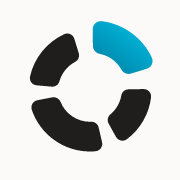
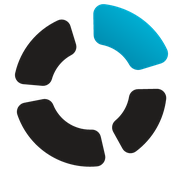
Tighten marketing site SEO around the new mark
Add Open Graph and Twitter titles on inner pages, version the OG image,
refresh the Apple touch icon from the four-colour mark, and expand
JSON-LD. Leave the waitlist form as-is.

diff --git a/site/index.html b/site/index.html
@@ -6,26 +6,48 @@
   <title>VortexFlow — every window and tab, at your cursor or key</title>
   <meta name="description" content="A spiral of every window and tab you have open appears around the pointer — or from any keyboard shortcut. For heavy macOS users. Join the waitlist.">
   <link rel="canonical" href="https://vortexflow.io/">
+  <meta property="og:site_name" content="VortexFlow">
   <meta property="og:title" content="VortexFlow — Every window and tab, at your cursor or key.">
   <meta property="og:description" content="A spiral of every window and tab you have open appears around the pointer — or from any keyboard shortcut. Join the waitlist.">
   <meta property="og:url" content="https://vortexflow.io/">
-  <meta property="og:image" content="https://vortexflow.io/img/og-image.png">
+  <meta property="og:image" content="https://vortexflow.io/img/og-image.png?v=2">
+  <meta property="og:image:width" content="1200">
+  <meta property="og:image:height" content="630">
   <meta property="og:type" content="website">
+  <meta name="twitter:title" content="VortexFlow — every window and tab, at your cursor or key">
+  <meta name="twitter:description" content="A spiral of every window and tab you have open appears around the pointer — or from any keyboard shortcut. For heavy macOS users. Join the waitlist.">
   <meta name="twitter:card" content="summary_large_image">
-  <meta name="twitter:image" content="https://vortexflow.io/img/og-image.png">
+  <meta name="twitter:image" content="https://vortexflow.io/img/og-image.png?v=2">
   <link rel="icon" href="/img/favicon.svg?v=2" type="image/svg+xml">
   <link rel="icon" href="/img/favicon-32.png?v=2" type="image/png" sizes="32x32">
-  <link rel="apple-touch-icon" href="/img/apple-touch.png">
+  <link rel="apple-touch-icon" href="/img/apple-touch.png?v=2">
   <meta name="theme-color" content="#f6f4f1">
   <link rel="stylesheet" href="/css/site.css?v=16">
   <script type="application/ld+json">
   {
     "@context": "https://schema.org",
-    "@type": "SoftwareApplication",
-    "name": "VortexFlow",
-    "operatingSystem": "macOS 15",
-    "applicationCategory": "UtilitiesApplication",
-    "url": "https://vortexflow.io/"
+    "@graph": [
+      {
+        "@type": "WebSite",
+        "name": "VortexFlow",
+        "url": "https://vortexflow.io/"
+      },
+      {
+        "@type": "SoftwareApplication",
+        "name": "VortexFlow",
+        "operatingSystem": "macOS 15",
+        "applicationCategory": "UtilitiesApplication",
+        "url": "https://vortexflow.io/",
+        "description": "A spiral of every window and tab you have open appears around the pointer, or from any keyboard shortcut. For heavy macOS users.",
+        "image": "https://vortexflow.io/img/og-image.png?v=2",
+        "offers": {
+          "@type": "Offer",
+          "price": "0",
+          "priceCurrency": "USD",
+          "availability": "https://schema.org/PreOrder"
+        }
+      }
+    ]
   }
   </script>
 </head>
@@ -35,7 +57,7 @@
   <nav id="nav" class="nav" aria-label="Primary">
     <div class="wrap nav-in">
       <a class="mark" href="#top">
-        <img src="/img/mark.svg" width="22" height="22" alt="" aria-hidden="true">
+        <img src="/img/mark.svg?v=2" width="22" height="22" alt="" aria-hidden="true">
         <span>VortexFlow</span>
       </a>
       <div class="nav-links">

diff --git a/site/blog/spaces-and-the-window-you-meant/index.html b/site/blog/spaces-and-the-window-you-meant/index.html
@@ -8,12 +8,38 @@
   <link rel="canonical" href="https://vortexflow.io/blog/spaces-and-the-window-you-meant/">
   <link rel="icon" href="/img/favicon.svg?v=2" type="image/svg+xml">
   <link rel="icon" href="/img/favicon-32.png?v=2" type="image/png" sizes="32x32">
-  <link rel="apple-touch-icon" href="/img/apple-touch.png">
+  <link rel="apple-touch-icon" href="/img/apple-touch.png?v=2">
   <meta name="theme-color" content="#f6f4f1">
-  <meta property="og:image" content="https://vortexflow.io/img/og-image.png">
+  <meta property="og:site_name" content="VortexFlow">
+  <meta property="og:title" content="The window you meant is on the other desk — VortexFlow">
+  <meta property="og:description" content="Cmd-` fails across Spaces and fullscreen. VortexFlow’s spiral lists those windows, and Full Screen in the card menu leaves the Space before it places them.">
+  <meta property="og:url" content="https://vortexflow.io/blog/spaces-and-the-window-you-meant/">
+  <meta property="og:type" content="article">
+  <meta property="og:image:width" content="1200">
+  <meta property="og:image:height" content="630">
+  <meta name="twitter:title" content="The window you meant is on the other desk — VortexFlow">
+  <meta name="twitter:description" content="Cmd-` fails across Spaces and fullscreen. VortexFlow’s spiral lists those windows, and Full Screen in the card menu leaves the Space before it places them.">
+  <meta property="og:image" content="https://vortexflow.io/img/og-image.png?v=2">
   <meta name="twitter:card" content="summary_large_image">
-  <meta name="twitter:image" content="https://vortexflow.io/img/og-image.png">
+  <meta name="twitter:image" content="https://vortexflow.io/img/og-image.png?v=2">
   <link rel="stylesheet" href="/css/site.css?v=16">
+  <script type="application/ld+json">
+  {
+    "@context": "https://schema.org",
+    "@type": "BlogPosting",
+    "headline": "The window you meant is on the other desk",
+    "description": "Cmd-` fails across Spaces and fullscreen. VortexFlow\u2019s spiral lists those windows, and Full Screen in the card menu leaves the Space before it places them.",
+    "url": "https://vortexflow.io/blog/spaces-and-the-window-you-meant/",
+    "image": "https://vortexflow.io/img/og-image.png?v=2",
+    "mainEntityOfPage": "https://vortexflow.io/blog/spaces-and-the-window-you-meant/",
+    "publisher": {
+      "@type": "Organization",
+      "name": "VortexFlow",
+      "url": "https://vortexflow.io/",
+      "logo": "https://vortexflow.io/img/mark.svg?v=2"
+    }
+  }
+  </script>
 </head>
 <body>
   <header class="nav">

diff --git a/site/blog/dont-leave-the-pointer/index.html b/site/blog/dont-leave-the-pointer/index.html
@@ -8,12 +8,38 @@
   <link rel="canonical" href="https://vortexflow.io/blog/dont-leave-the-pointer/">
   <link rel="icon" href="/img/favicon.svg?v=2" type="image/svg+xml">
   <link rel="icon" href="/img/favicon-32.png?v=2" type="image/png" sizes="32x32">
-  <link rel="apple-touch-icon" href="/img/apple-touch.png">
+  <link rel="apple-touch-icon" href="/img/apple-touch.png?v=2">
   <meta name="theme-color" content="#f6f4f1">
-  <meta property="og:image" content="https://vortexflow.io/img/og-image.png">
+  <meta property="og:site_name" content="VortexFlow">
+  <meta property="og:title" content="Don’t leave the pointer — VortexFlow">
+  <meta property="og:description" content="Window switching is slow because the hand leaves the mouse. VortexFlow keeps the spiral at the cursor — and the same overlay on a keyboard shortcut.">
+  <meta property="og:url" content="https://vortexflow.io/blog/dont-leave-the-pointer/">
+  <meta property="og:type" content="article">
+  <meta property="og:image:width" content="1200">
+  <meta property="og:image:height" content="630">
+  <meta name="twitter:title" content="Don’t leave the pointer — VortexFlow">
+  <meta name="twitter:description" content="Window switching is slow because the hand leaves the mouse. VortexFlow keeps the spiral at the cursor — and the same overlay on a keyboard shortcut.">
+  <meta property="og:image" content="https://vortexflow.io/img/og-image.png?v=2">
   <meta name="twitter:card" content="summary_large_image">
-  <meta name="twitter:image" content="https://vortexflow.io/img/og-image.png">
+  <meta name="twitter:image" content="https://vortexflow.io/img/og-image.png?v=2">
   <link rel="stylesheet" href="/css/site.css?v=16">
+  <script type="application/ld+json">
+  {
+    "@context": "https://schema.org",
+    "@type": "BlogPosting",
+    "headline": "Don\u2019t leave the pointer",
+    "description": "Window switching is slow because the hand leaves the mouse. VortexFlow keeps the spiral at the cursor \u2014 and the same overlay on a keyboard shortcut.",
+    "url": "https://vortexflow.io/blog/dont-leave-the-pointer/",
+    "image": "https://vortexflow.io/img/og-image.png?v=2",
+    "mainEntityOfPage": "https://vortexflow.io/blog/dont-leave-the-pointer/",
+    "publisher": {
+      "@type": "Organization",
+      "name": "VortexFlow",
+      "url": "https://vortexflow.io/",
+      "logo": "https://vortexflow.io/img/mark.svg?v=2"
+    }
+  }
+  </script>
 </head>
 <body>
   <header class="nav">

diff --git a/site/blog/six-chromes-one-spiral/index.html b/site/blog/six-chromes-one-spiral/index.html
@@ -8,12 +8,38 @@
   <link rel="canonical" href="https://vortexflow.io/blog/six-chromes-one-spiral/">
   <link rel="icon" href="/img/favicon.svg?v=2" type="image/svg+xml">
   <link rel="icon" href="/img/favicon-32.png?v=2" type="image/png" sizes="32x32">
-  <link rel="apple-touch-icon" href="/img/apple-touch.png">
+  <link rel="apple-touch-icon" href="/img/apple-touch.png?v=2">
   <meta name="theme-color" content="#f6f4f1">
-  <meta property="og:image" content="https://vortexflow.io/img/og-image.png">
+  <meta property="og:site_name" content="VortexFlow">
+  <meta property="og:title" content="Six Chromes. One spiral. — VortexFlow">
+  <meta property="og:description" content="Same-app windows are only identical if the switcher makes them so. VortexFlow’s spiral tints each card and layers the site’s icon on the browser.">
+  <meta property="og:url" content="https://vortexflow.io/blog/six-chromes-one-spiral/">
+  <meta property="og:type" content="article">
+  <meta property="og:image:width" content="1200">
+  <meta property="og:image:height" content="630">
+  <meta name="twitter:title" content="Six Chromes. One spiral. — VortexFlow">
+  <meta name="twitter:description" content="Same-app windows are only identical if the switcher makes them so. VortexFlow’s spiral tints each card and layers the site’s icon on the browser.">
+  <meta property="og:image" content="https://vortexflow.io/img/og-image.png?v=2">
   <meta name="twitter:card" content="summary_large_image">
-  <meta name="twitter:image" content="https://vortexflow.io/img/og-image.png">
+  <meta name="twitter:image" content="https://vortexflow.io/img/og-image.png?v=2">
   <link rel="stylesheet" href="/css/site.css?v=16">
+  <script type="application/ld+json">
+  {
+    "@context": "https://schema.org",
+    "@type": "BlogPosting",
+    "headline": "Six Chromes. One spiral.",
+    "description": "Same-app windows are only identical if the switcher makes them so. VortexFlow\u2019s spiral tints each card and layers the site\u2019s icon on the browser.",
+    "url": "https://vortexflow.io/blog/six-chromes-one-spiral/",
+    "image": "https://vortexflow.io/img/og-image.png?v=2",
+    "mainEntityOfPage": "https://vortexflow.io/blog/six-chromes-one-spiral/",
+    "publisher": {
+      "@type": "Organization",
+      "name": "VortexFlow",
+      "url": "https://vortexflow.io/",
+      "logo": "https://vortexflow.io/img/mark.svg?v=2"
+    }
+  }
+  </script>
 </head>
 <body>
   <header class="nav">

diff --git a/site/privacy/index.html b/site/privacy/index.html
@@ -8,11 +8,20 @@
   <link rel="canonical" href="https://vortexflow.io/privacy/">
   <link rel="icon" href="/img/favicon.svg?v=2" type="image/svg+xml">
   <link rel="icon" href="/img/favicon-32.png?v=2" type="image/png" sizes="32x32">
-  <link rel="apple-touch-icon" href="/img/apple-touch.png">
+  <link rel="apple-touch-icon" href="/img/apple-touch.png?v=2">
   <meta name="theme-color" content="#f6f4f1">
-  <meta property="og:image" content="https://vortexflow.io/img/og-image.png">
+  <meta property="og:site_name" content="VortexFlow">
+  <meta property="og:title" content="Privacy policy — VortexFlow">
+  <meta property="og:description" content="VortexFlow stores your account so the preview and license can work. It does not send window titles, screenshots, or search queries.">
+  <meta property="og:url" content="https://vortexflow.io/privacy/">
+  <meta property="og:type" content="website">
+  <meta property="og:image:width" content="1200">
+  <meta property="og:image:height" content="630">
+  <meta name="twitter:title" content="Privacy policy — VortexFlow">
+  <meta name="twitter:description" content="VortexFlow stores your account so the preview and license can work. It does not send window titles, screenshots, or search queries.">
+  <meta property="og:image" content="https://vortexflow.io/img/og-image.png?v=2">
   <meta name="twitter:card" content="summary_large_image">
-  <meta name="twitter:image" content="https://vortexflow.io/img/og-image.png">
+  <meta name="twitter:image" content="https://vortexflow.io/img/og-image.png?v=2">
   <link rel="stylesheet" href="/css/site.css?v=16">
 </head>
 <body>

diff --git a/site/permissions/index.html b/site/permissions/index.html
@@ -8,11 +8,20 @@
   <link rel="canonical" href="https://vortexflow.io/permissions/">
   <link rel="icon" href="/img/favicon.svg?v=2" type="image/svg+xml">
   <link rel="icon" href="/img/favicon-32.png?v=2" type="image/png" sizes="32x32">
-  <link rel="apple-touch-icon" href="/img/apple-touch.png">
+  <link rel="apple-touch-icon" href="/img/apple-touch.png?v=2">
   <meta name="theme-color" content="#f6f4f1">
-  <meta property="og:image" content="https://vortexflow.io/img/og-image.png">
+  <meta property="og:site_name" content="VortexFlow">
+  <meta property="og:title" content="Permissions — VortexFlow">
+  <meta property="og:description" content="What Input Monitoring, Accessibility, Screen Recording, and Automation each buy in VortexFlow, and what still works without them.">
+  <meta property="og:url" content="https://vortexflow.io/permissions/">
+  <meta property="og:type" content="website">
+  <meta property="og:image:width" content="1200">
+  <meta property="og:image:height" content="630">
+  <meta name="twitter:title" content="Permissions — VortexFlow">
+  <meta name="twitter:description" content="What Input Monitoring, Accessibility, Screen Recording, and Automation each buy in VortexFlow, and what still works without them.">
+  <meta property="og:image" content="https://vortexflow.io/img/og-image.png?v=2">
   <meta name="twitter:card" content="summary_large_image">
-  <meta name="twitter:image" content="https://vortexflow.io/img/og-image.png">
+  <meta name="twitter:image" content="https://vortexflow.io/img/og-image.png?v=2">
   <link rel="stylesheet" href="/css/site.css?v=16">
 </head>
 <body>

diff --git a/site/compare/index.html b/site/compare/index.html
@@ -8,11 +8,20 @@
   <link rel="canonical" href="https://vortexflow.io/compare/">
   <link rel="icon" href="/img/favicon.svg?v=2" type="image/svg+xml">
   <link rel="icon" href="/img/favicon-32.png?v=2" type="image/png" sizes="32x32">
-  <link rel="apple-touch-icon" href="/img/apple-touch.png">
+  <link rel="apple-touch-icon" href="/img/apple-touch.png?v=2">
   <meta name="theme-color" content="#f6f4f1">
-  <meta property="og:image" content="https://vortexflow.io/img/og-image.png">
+  <meta property="og:site_name" content="VortexFlow">
+  <meta property="og:title" content="VortexFlow vs Cmd-Tab, Dory, AltTab, and the rest">
+  <meta property="og:description" content="VortexFlow is a spiral of windows at the cursor, for heavy macOS users. Join the waitlist.">
+  <meta property="og:url" content="https://vortexflow.io/compare/">
+  <meta property="og:type" content="website">
+  <meta property="og:image:width" content="1200">
+  <meta property="og:image:height" content="630">
+  <meta name="twitter:title" content="VortexFlow vs Cmd-Tab, Dory, AltTab, and the rest">
+  <meta name="twitter:description" content="VortexFlow is a spiral of windows at the cursor, for heavy macOS users. Join the waitlist.">
+  <meta property="og:image" content="https://vortexflow.io/img/og-image.png?v=2">
   <meta name="twitter:card" content="summary_large_image">
-  <meta name="twitter:image" content="https://vortexflow.io/img/og-image.png">
+  <meta name="twitter:image" content="https://vortexflow.io/img/og-image.png?v=2">
   <link rel="stylesheet" href="/css/site.css?v=16">
 </head>
 <body>

diff --git a/site/download/index.html b/site/download/index.html
@@ -8,11 +8,20 @@
   <link rel="canonical" href="https://vortexflow.io/download/">
   <link rel="icon" href="/img/favicon.svg?v=2" type="image/svg+xml">
   <link rel="icon" href="/img/favicon-32.png?v=2" type="image/png" sizes="32x32">
-  <link rel="apple-touch-icon" href="/img/apple-touch.png">
+  <link rel="apple-touch-icon" href="/img/apple-touch.png?v=2">
   <meta name="theme-color" content="#f6f4f1">
-  <meta property="og:image" content="https://vortexflow.io/img/og-image.png">
+  <meta property="og:site_name" content="VortexFlow">
+  <meta property="og:title" content="Join the waitlist — VortexFlow">
+  <meta property="og:description" content="Join the VortexFlow waitlist. Leave an email. We'll write when the preview is ready. No download today.">
+  <meta property="og:url" content="https://vortexflow.io/download/">
+  <meta property="og:type" content="website">
+  <meta property="og:image:width" content="1200">
+  <meta property="og:image:height" content="630">
+  <meta name="twitter:title" content="Join the waitlist — VortexFlow">
+  <meta name="twitter:description" content="Join the VortexFlow waitlist. Leave an email. We'll write when the preview is ready. No download today.">
+  <meta property="og:image" content="https://vortexflow.io/img/og-image.png?v=2">
   <meta name="twitter:card" content="summary_large_image">
-  <meta name="twitter:image" content="https://vortexflow.io/img/og-image.png">
+  <meta name="twitter:image" content="https://vortexflow.io/img/og-image.png?v=2">
   <link rel="stylesheet" href="/css/site.css?v=16">
 </head>
 <body>

diff --git a/site/thanks/index.html b/site/thanks/index.html
@@ -9,11 +9,20 @@
   <link rel="canonical" href="https://vortexflow.io/thanks/">
   <link rel="icon" href="/img/favicon.svg?v=2" type="image/svg+xml">
   <link rel="icon" href="/img/favicon-32.png?v=2" type="image/png" sizes="32x32">
-  <link rel="apple-touch-icon" href="/img/apple-touch.png">
+  <link rel="apple-touch-icon" href="/img/apple-touch.png?v=2">
   <meta name="theme-color" content="#f6f4f1">
-  <meta property="og:image" content="https://vortexflow.io/img/og-image.png">
+  <meta property="og:site_name" content="VortexFlow">
+  <meta property="og:title" content="You’re on the list — VortexFlow">
+  <meta property="og:description" content="You’re on the VortexFlow waitlist. We’ll write when the preview is ready.">
+  <meta property="og:url" content="https://vortexflow.io/thanks/">
+  <meta property="og:type" content="website">
+  <meta property="og:image:width" content="1200">
+  <meta property="og:image:height" content="630">
+  <meta name="twitter:title" content="You’re on the list — VortexFlow">
+  <meta name="twitter:description" content="You’re on the VortexFlow waitlist. We’ll write when the preview is ready.">
+  <meta property="og:image" content="https://vortexflow.io/img/og-image.png?v=2">
   <meta name="twitter:card" content="summary_large_image">
-  <meta name="twitter:image" content="https://vortexflow.io/img/og-image.png">
+  <meta name="twitter:image" content="https://vortexflow.io/img/og-image.png?v=2">
   <link rel="stylesheet" href="/css/site.css?v=16">
 </head>
 <body>

diff --git a/site/blog/index.html b/site/blog/index.html
@@ -8,11 +8,20 @@
   <link rel="canonical" href="https://vortexflow.io/blog/">
   <link rel="icon" href="/img/favicon.svg?v=2" type="image/svg+xml">
   <link rel="icon" href="/img/favicon-32.png?v=2" type="image/png" sizes="32x32">
-  <link rel="apple-touch-icon" href="/img/apple-touch.png">
+  <link rel="apple-touch-icon" href="/img/apple-touch.png?v=2">
   <meta name="theme-color" content="#f6f4f1">
-  <meta property="og:image" content="https://vortexflow.io/img/og-image.png">
+  <meta property="og:site_name" content="VortexFlow">
+  <meta property="og:title" content="Blog — VortexFlow">
+  <meta property="og:description" content="Productivity notes from the spiral: window switching without leaving the pointer.">
+  <meta property="og:url" content="https://vortexflow.io/blog/">
+  <meta property="og:type" content="website">
+  <meta property="og:image:width" content="1200">
+  <meta property="og:image:height" content="630">
+  <meta name="twitter:title" content="Blog — VortexFlow">
+  <meta name="twitter:description" content="Productivity notes from the spiral: window switching without leaving the pointer.">
+  <meta property="og:image" content="https://vortexflow.io/img/og-image.png?v=2">
   <meta name="twitter:card" content="summary_large_image">
-  <meta name="twitter:image" content="https://vortexflow.io/img/og-image.png">
+  <meta name="twitter:image" content="https://vortexflow.io/img/og-image.png?v=2">
   <link rel="stylesheet" href="/css/site.css?v=16">
 </head>
 <body>

diff --git a/site/terms/index.html b/site/terms/index.html
@@ -8,11 +8,20 @@
   <link rel="canonical" href="https://vortexflow.io/terms/">
   <link rel="icon" href="/img/favicon.svg?v=2" type="image/svg+xml">
   <link rel="icon" href="/img/favicon-32.png?v=2" type="image/png" sizes="32x32">
-  <link rel="apple-touch-icon" href="/img/apple-touch.png">
+  <link rel="apple-touch-icon" href="/img/apple-touch.png?v=2">
   <meta name="theme-color" content="#f6f4f1">
-  <meta property="og:image" content="https://vortexflow.io/img/og-image.png">
+  <meta property="og:site_name" content="VortexFlow">
+  <meta property="og:title" content="Terms — VortexFlow">
+  <meta property="og:description" content="Terms of use for VortexFlow: waitlist, account, and the preview when it opens.">
+  <meta property="og:url" content="https://vortexflow.io/terms/">
+  <meta property="og:type" content="website">
+  <meta property="og:image:width" content="1200">
+  <meta property="og:image:height" content="630">
+  <meta name="twitter:title" content="Terms — VortexFlow">
+  <meta name="twitter:description" content="Terms of use for VortexFlow: waitlist, account, and the preview when it opens.">
+  <meta property="og:image" content="https://vortexflow.io/img/og-image.png?v=2">
   <meta name="twitter:card" content="summary_large_image">
-  <meta name="twitter:image" content="https://vortexflow.io/img/og-image.png">
+  <meta name="twitter:image" content="https://vortexflow.io/img/og-image.png?v=2">
   <link rel="stylesheet" href="/css/site.css?v=16">
 </head>
 <body>

diff --git a/site/license/index.html b/site/license/index.html
@@ -3,16 +3,24 @@
 <head>
   <meta charset="utf-8">
   <meta name="viewport" content="width=device-width, initial-scale=1">
+  <meta name="robots" content="noindex">
   <title>Terms — VortexFlow</title>
   <meta http-equiv="refresh" content="0; url=/terms/">
   <link rel="canonical" href="https://vortexflow.io/terms/">
   <link rel="icon" href="/img/favicon.svg?v=2" type="image/svg+xml">
   <link rel="icon" href="/img/favicon-32.png?v=2" type="image/png" sizes="32x32">
-  <link rel="apple-touch-icon" href="/img/apple-touch.png">
+  <link rel="apple-touch-icon" href="/img/apple-touch.png?v=2">
   <meta name="theme-color" content="#f6f4f1">
-  <meta property="og:image" content="https://vortexflow.io/img/og-image.png">
+  <meta property="og:site_name" content="VortexFlow">
+  <meta property="og:title" content="Terms — VortexFlow">
+  <meta property="og:url" content="https://vortexflow.io/terms/">
+  <meta property="og:type" content="website">
+  <meta property="og:image:width" content="1200">
+  <meta property="og:image:height" content="630">
+  <meta name="twitter:title" content="Terms — VortexFlow">
+  <meta property="og:image" content="https://vortexflow.io/img/og-image.png?v=2">
   <meta name="twitter:card" content="summary_large_image">
-  <meta name="twitter:image" content="https://vortexflow.io/img/og-image.png">
+  <meta name="twitter:image" content="https://vortexflow.io/img/og-image.png?v=2">
   <link rel="stylesheet" href="/css/site.css?v=16">
 </head>
 <body>
